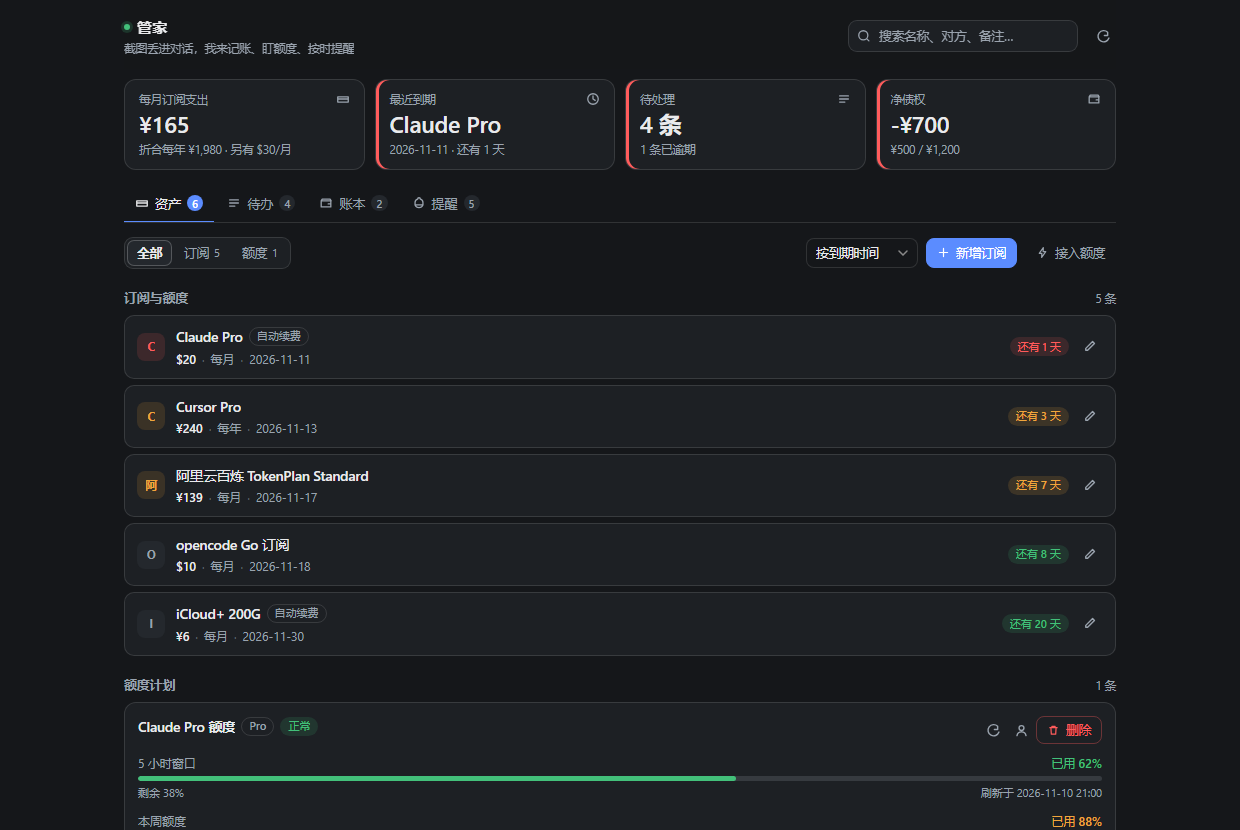
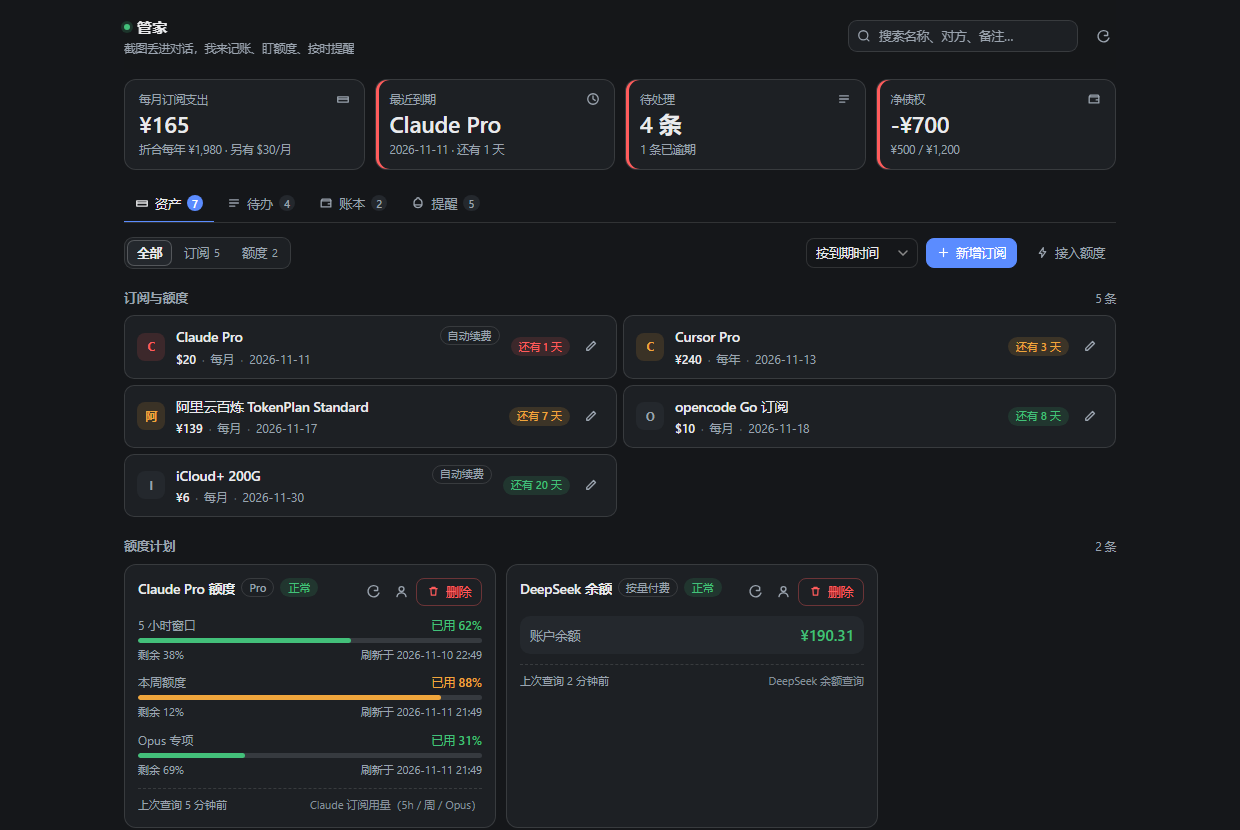
docs: 重新生成面板截图（两列布局/标题两行/双类型额度卡）
- panel-light.png、panel-dark.png 按当前 UI 重出，示例数据用 5 条订阅 + 配额型/余额型各一张额度卡
- README 补图注（两列、标题两行、余额型展示、深色模式链接），测试数改为实测 107
- 删除两张已无引用且已过期的截图

diff --git a/README.md b/README.md
@@ -4,6 +4,8 @@
 
 ![管家面板](docs/panel-light.png)
 
+<sub>上图是面板的资产页：四张汇总卡 + 按到期排序的订阅（宽屏两列，标题最多两行）+ 额度卡片（5 小时 / 周 / 月三条进度条，余额型直接显示余额）。深色模式见 [docs/panel-dark.png](docs/panel-dark.png)。</sub>
+
 | 你发的截图 | 管家记成 | 之后会发生什么 |
 |---|---|---|
 | 软件订阅页（名称 / 金额 / 到期时间） | **资产** | 面板按到期排序，到期前提醒你 |
@@ -162,7 +164,7 @@
 
 ```bash
 node --check client.js
-npm test          # node --test "test/*.test.mjs"，101 例
+npm test          # node --test "test/*.test.mjs"，107 例
 ```
 
 目录：`index.js`（Host 装配）· `client.js`（侧栏面板）· `src/`（存储/额度/提醒/路由/工具/提示词）· `cordis.patch.yml`（插件行与默认配置）· `locale/`、`icon.svg`、`docs/`（截图）。
